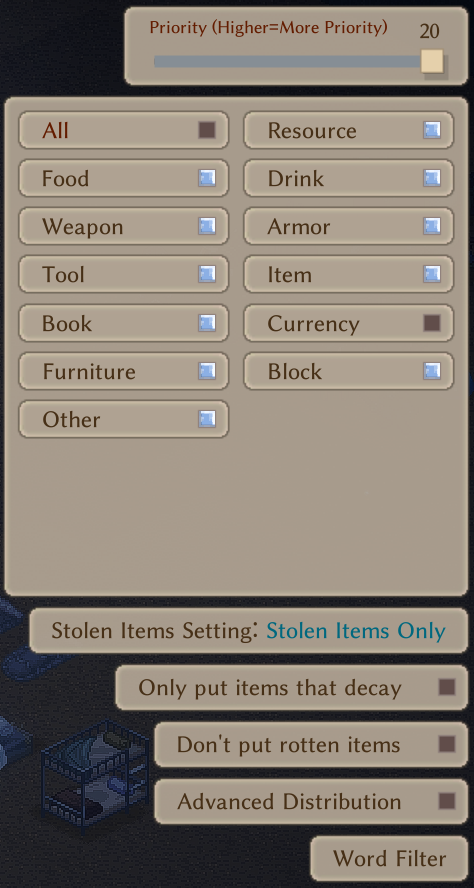
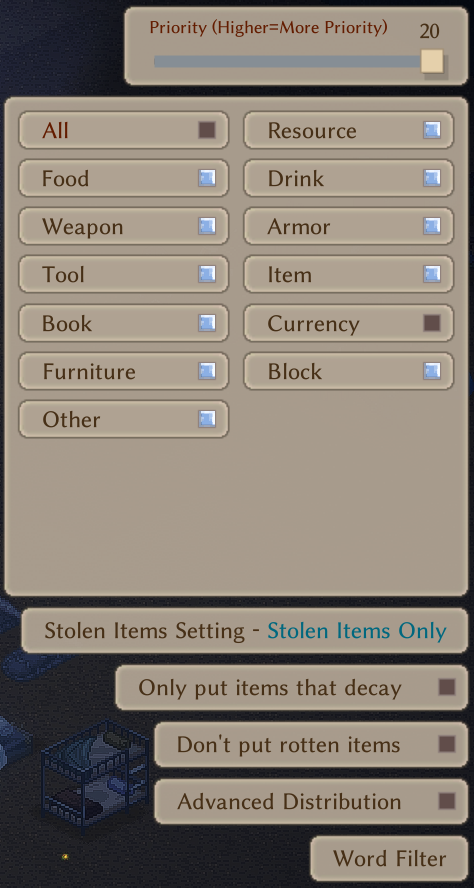
Improve mode label spacing and replace all nine gallery captures

Changed region(s): [[0.0295, 0.6689, 0.5316, 0.7297], [0.7089, 0.6993, 0.9451, 0.7297], [0.5612, 0.6993, 0.6793, 0.7297]]

diff --git a/Plugin.cs b/Plugin.cs
@@ -11,7 +11,7 @@ using Newtonsoft.Json.Serialization;
 
 namespace StolenGoodsFilter
 {
-    [BepInPlugin(Id, "Stolen Goods Filter", "1.1.0")]
+    [BepInPlugin(Id, "Stolen Goods Filter", "1.1.1")]
     public sealed class Plugin : BaseUnityPlugin
     {
         public const string Id = "gharkz.stolengoodsfilter";
@@ -144,9 +144,9 @@ namespace StolenGoodsFilter
             string[] options;
             switch (languageCode)
             {
-                case "JP": heading = "盗品の設定: "; options = new[] { "盗品を許可", "盗品のみ", "盗品を拒否" }; break;
-                case "CN": heading = "赃物设置: "; options = new[] { "允许赃物", "仅限赃物", "拒绝赃物" }; break;
-                default: heading = "Stolen Items Setting: "; options = new[] { "Allow Stolen Items", "Stolen Items Only", "Reject Stolen Items" }; break;
+                case "JP": heading = "盗品の設定 - "; options = new[] { "盗品を許可", "盗品のみ", "盗品を拒否" }; break;
+                case "CN": heading = "赃物设置 - "; options = new[] { "允许赃物", "仅限赃物", "拒绝赃物" }; break;
+                default: heading = "Stolen Items Setting - "; options = new[] { "Allow Stolen Items", "Stolen Items Only", "Reject Stolen Items" }; break;
             }
             var value = options[(int)mode];
             if (colored && mode != StolenMode.Allow)

diff --git a/CHANGELOG.md b/CHANGELOG.md
@@ -1,5 +1,11 @@
 # Changelog
 
+## 1.1.1 — 2026-11-13
+
+- Use a spaced hyphen in all three setting labels. Retake the nine screenshots with inventory and ability windows hidden and tighter crops.
+- 日本語: 設定名の区切りを空白付きハイフンに変更し、余分なウィンドウを隠した9枚の画像に更新。
+- 简体中文：设置标签改用带空格的连字符，并更新隐藏背包和技能窗口后的九张截图。
+
 ## 1.1.0, 2026-11-13
 
 - Replace the old gallery with nine fresh in-game screenshots: Allow, Only, Reject in English, Japanese, then Chinese.
@@ -52,4 +58,3 @@
 - 可与现有的类别筛选、关键词筛选和物品分配优先度配合使用。
 - 支持随身容器、共享存储以及存放物品时的目标容器选择。
 - 设置独立于游戏原有标记保存，并支持复制。
-
